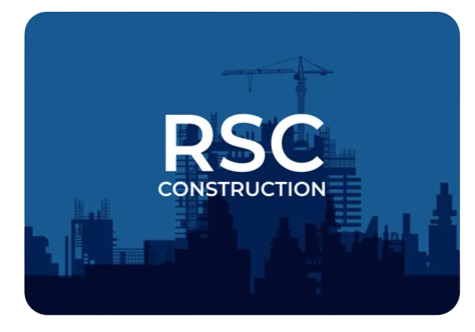
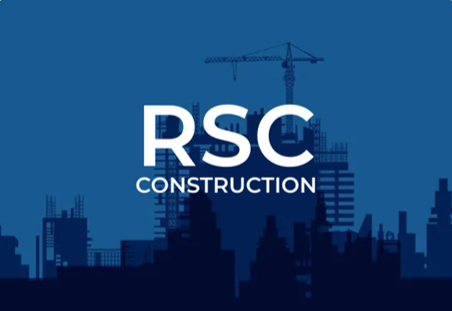
KOMPANIYA HAQIDA

diff --git a/src/pages/Home.tsx b/src/pages/Home.tsx
@@ -1,6 +1,6 @@
 import { useTranslation } from 'react-i18next'
+import AboutImage from '../assets/images/about_company.png'
 import './Home.scss'
-
 const Home = () => {
 	const { t } = useTranslation()
 
@@ -48,13 +48,10 @@ const Home = () => {
 			<section className='about'>
 				<div className='container'>
 					<div className='about__wrapper'>
-						{/* LEGEND */}
 						<h6 className='about__label'>{t('about.label')}</h6>
 
-						{/* LEFT */}
 						<div className='about__content'>
 							<h2 className='about__title'>{t('about.title')}</h2>
-
 							<p className='about__text'>{t('about.text')}</p>
 
 							<div className='about__stats'>
@@ -62,7 +59,6 @@ const Home = () => {
 									<span>{t('about.stat1.value')}</span>
 									<p>{t('about.stat1.label')}</p>
 								</div>
-
 								<div className='about__stat'>
 									<span>{t('about.stat2.value')}</span>
 									<p>{t('about.stat2.label')}</p>
@@ -70,12 +66,8 @@ const Home = () => {
 							</div>
 						</div>
 
-						{/* RIGHT */}
 						<div className='about__image'>
-							<img
-								src='../assets/images/about_company.pngs'
-								alt='RSC Construction'
-							/>
+							<img src={AboutImage} alt='RSC Construction' />
 						</div>
 					</div>
 				</div>

diff --git a/src/pages/Home.scss b/src/pages/Home.scss
@@ -268,14 +268,14 @@ $breakpoints: (
 	grid-template-columns: 1.1fr 0.9fr;
 	gap: 64px;
 
-	border: 2px solid #1f2937; // qoraga yaqin
+	border: 2px solid #878686;
 	border-radius: 28px;
 
 	padding: 72px 64px 56px;
 	background: #fff;
 
 	@include mq-max(lg) {
-		gap: 40px;
+		gap: 30px;
 		padding: 56px 48px;
 	}
 
@@ -290,13 +290,13 @@ $breakpoints: (
 // =============================================
 .about__label {
 	position: absolute;
-	top: -18px; // BORDERNI YORIB CHIQADI
+	top: -75px;
 	left: 32px;
 
 	padding: 0 18px;
-	background: #fff; // borderni "kesib" beradi
+	background: #fff;
 
-	font-size: 22px; // kattaroq
+	font-size: 26px;
 	font-weight: 700;
 	letter-spacing: 1.6px;
 	text-transform: uppercase;
@@ -352,12 +352,12 @@ $breakpoints: (
 .about__stat::before {
 	content: '';
 	position: absolute;
-	top: 0;
+	top: 60px;
 	left: 0;
 
-	width: 56px;
+	width: 150px;
 	height: 2px;
-	background: #1f2937; // qoraga yaqin chiziq
+	background: #878686;
 }
 
 .about__stat span {
@@ -381,7 +381,6 @@ $breakpoints: (
 	width: 100%;
 	height: 100%;
 	border-radius: 22px;
-	background: #155a93;
 	display: flex;
 	align-items: center;
 	justify-content: center;
